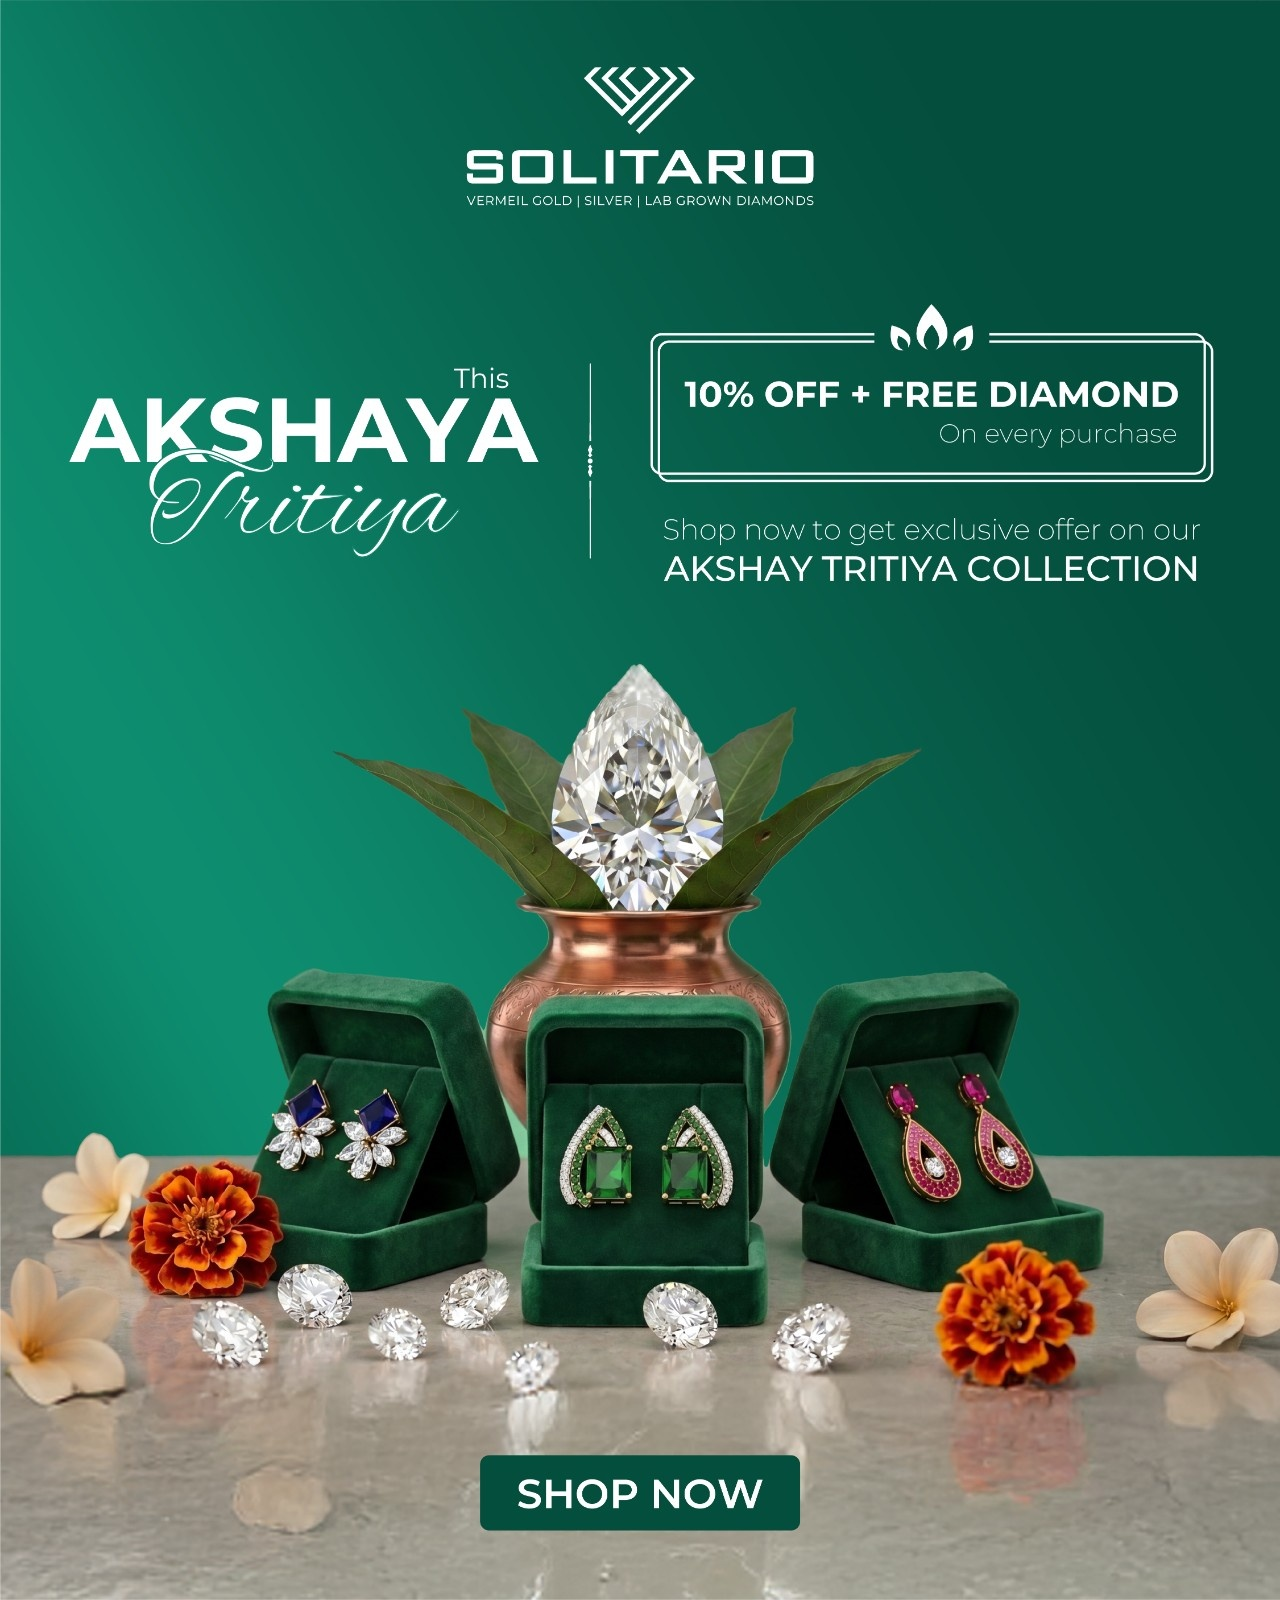
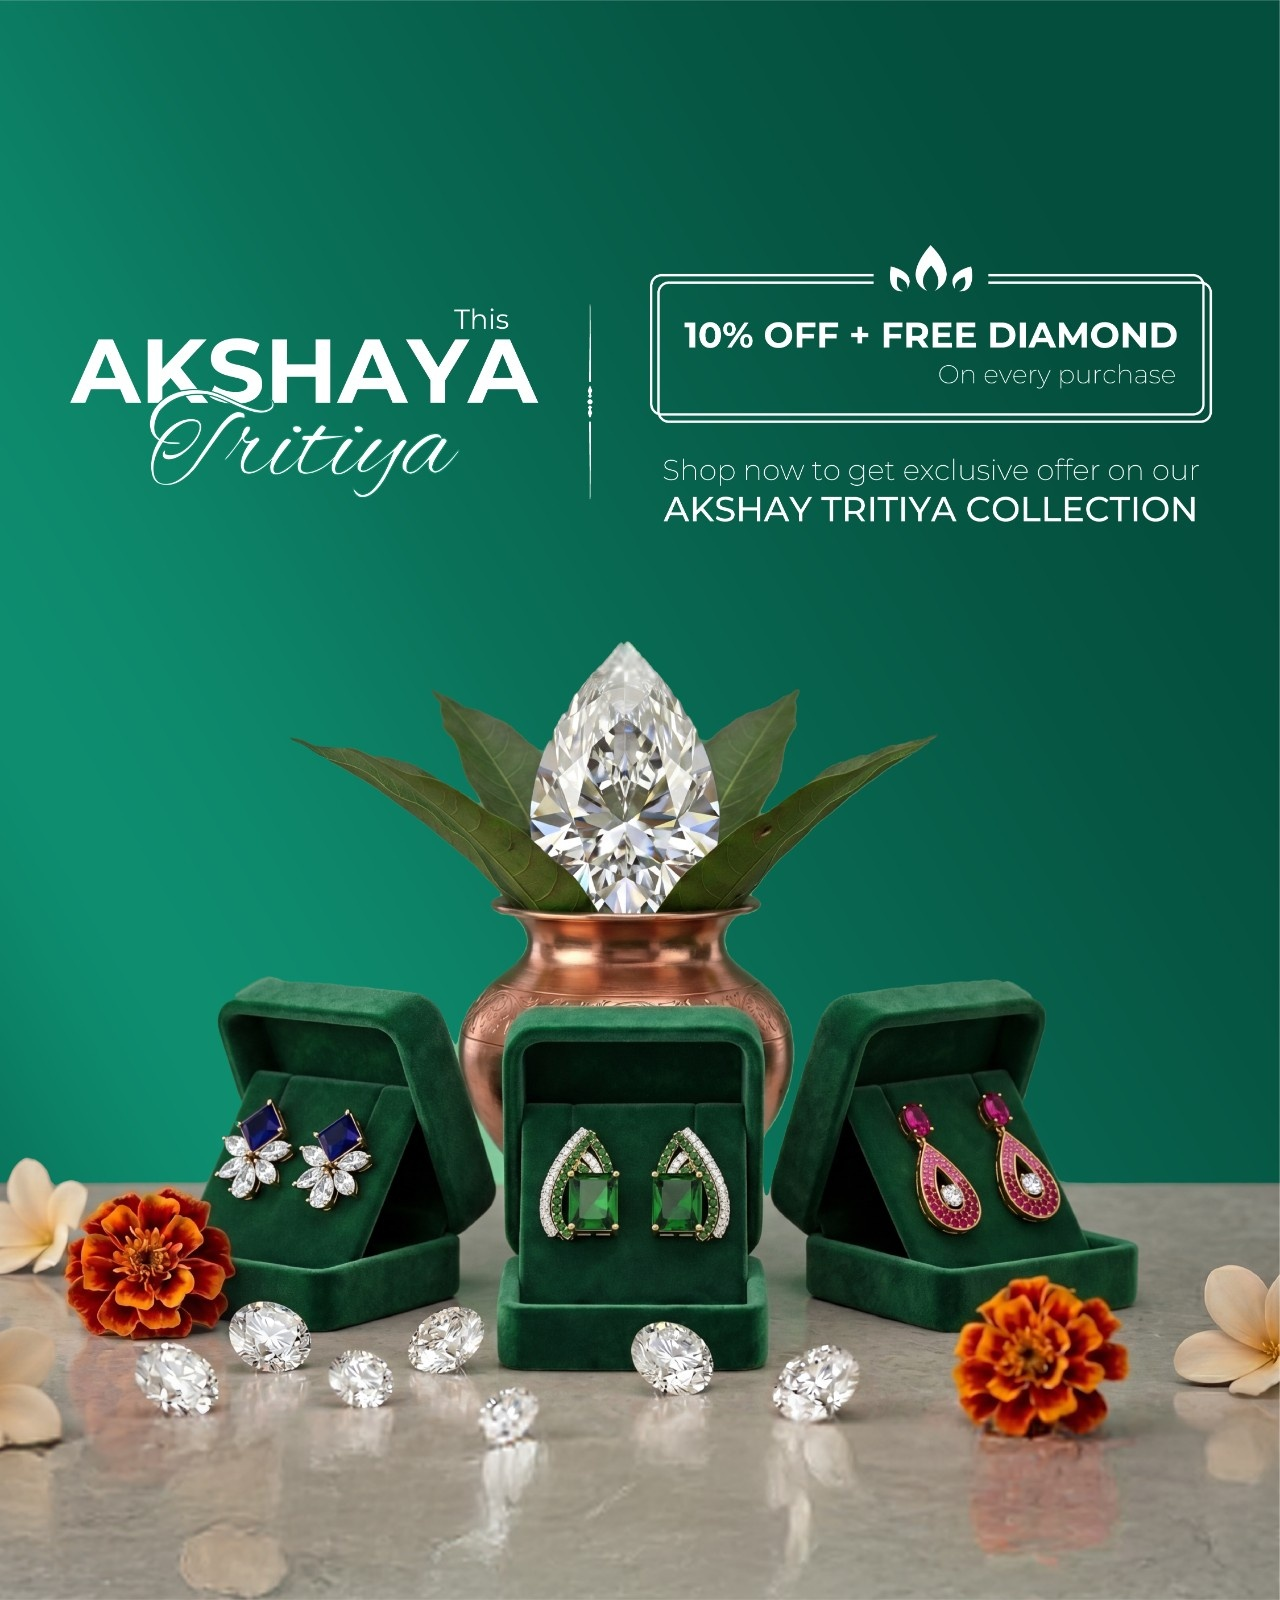
feat: Akshaya Tritiya hero slider and layout hydration fix

diff --git a/app/(public)/festival/page.tsx b/app/(public)/festival/page.tsx
@@ -31,6 +31,7 @@ const LOAD_MORE_THRESHOLD = 12;
 
 function FestivalHero({ festival }: { festival: FestivalConfig }) {
   const [isMobile, setIsMobile] = useState(false);
+  const [currentIndex, setCurrentIndex] = useState(0);
 
   useEffect(() => {
     const check = () => setIsMobile(window.innerWidth < 768);
@@ -39,31 +40,67 @@ function FestivalHero({ festival }: { festival: FestivalConfig }) {
     return () => window.removeEventListener('resize', check);
   }, []);
 
-  const hasImage = !!festival.heroImage;
+  // Multi-banner slider logic
+  const banners = (isMobile ? festival.mobileHeroImages : festival.heroImages) ||
+    (festival.heroImage ? [isMobile && festival.mobileHeroImage ? festival.mobileHeroImage : festival.heroImage] : []);
+  const hasSlider = banners.length > 1;
+
+  useEffect(() => {
+    if (!hasSlider) return;
+    const timer = setInterval(() => {
+      setCurrentIndex((prev) => (prev + 1) % banners.length);
+    }, 5000);
+    return () => clearInterval(timer);
+  }, [hasSlider, banners.length]);
 
   return (
     <section className="relative w-full overflow-hidden bg-[#1a1a1a]">
       <div className="relative w-full aspect-[4/5] md:aspect-[16/7] max-h-[85vh] md:max-h-[700px]">
         <div className="absolute inset-0">
-          {hasImage ? (
-            <Image
-              src={festival.heroImage!}
-              alt={festival.tagline}
-              fill
-              className="object-cover object-center"
-              priority
-              quality={90}
-              sizes="100vw"
-            />
-          ) : (
-            /* Fallback gradient when no image configured */
-            <div className="w-full h-full bg-gradient-to-br from-classic-green via-[#0d4a3a] to-[#0a3528]" />
-          )}
+          <AnimatePresence mode="wait">
+            {banners.length > 0 ? (
+              <motion.div
+                key={`${currentIndex}-${isMobile}`}
+                initial={{ opacity: 0 }}
+                animate={{ opacity: 1 }}
+                exit={{ opacity: 0 }}
+                transition={{ duration: 1 }}
+                className="absolute inset-0"
+              >
+                <Image
+                  src={banners[currentIndex]}
+                  alt={festival.tagline}
+                  fill
+                  className="object-cover object-center"
+                  priority
+                  quality={90}
+                  sizes="100vw"
+                />
+              </motion.div>
+            ) : (
+              <div className="w-full h-full bg-gradient-to-br from-classic-green via-[#0d4a3a] to-[#0a3528]" />
+            )}
+          </AnimatePresence>
           {/* Gradient overlay — bottom-heavy like earrings hero */}
           <div className="absolute inset-0 bg-gradient-to-t from-black/70 via-black/30 to-transparent" />
         </div>
 
-        {/* Dramatic top-left tagline (like "DRAMATIC. DELICATE. DIVINE.") */}
+        {/* Slider Dots */}
+        {hasSlider && (
+          <div className="absolute bottom-6 left-1/2 -translate-x-1/2 flex gap-2 z-20">
+            {banners.map((_, idx) => (
+              <button
+                key={idx}
+                onClick={() => setCurrentIndex(idx)}
+                className={`w-2 h-2 rounded-full transition-all duration-300 ${currentIndex === idx ? 'bg-white w-6' : 'bg-white/40'
+                  }`}
+                aria-label={`Go to slide ${idx + 1}`}
+              />
+            ))}
+          </div>
+        )}
+
+        {/* Dramatic top-left tagline */}
         {festival.heroTagline && (
           <motion.div
             initial={{ opacity: 0, x: -20 }}
@@ -77,12 +114,12 @@ function FestivalHero({ festival }: { festival: FestivalConfig }) {
           </motion.div>
         )}
 
-        {/* Bottom-center text — same position as category page */}
+        {/* Bottom-center text */}
         <div className="absolute inset-0 z-10 flex items-end justify-center pb-12 md:pb-16">
           <div className="text-center px-4">
             {/* Breadcrumb */}
             <nav className="flex items-center justify-center gap-2 text-white/70 text-sm mb-4 font-montserrat">
-              <Link href="/" className="hover:text-white transition-colors">Home</Link>
+              <Link href="/" className="hover:text-white transition-colors underline-offset-4 hover:underline">Home</Link>
               <span>/</span>
               <span className="text-white">{festival.tagline}</span>
             </nav>
@@ -91,7 +128,7 @@ function FestivalHero({ festival }: { festival: FestivalConfig }) {
               initial={{ opacity: 0, y: 20 }}
               animate={{ opacity: 1, y: 0 }}
               transition={{ duration: 0.6 }}
-              className="text-4xl md:text-5xl lg:text-6xl font-montserrat font-bold text-white mb-4"
+              className="text-4xl md:text-5xl lg:text-5xl font-montserrat font-bold text-white mb-4 drop-shadow-lg"
             >
               {festival.heading}
             </motion.h1>
@@ -100,7 +137,7 @@ function FestivalHero({ festival }: { festival: FestivalConfig }) {
               initial={{ opacity: 0, y: 20 }}
               animate={{ opacity: 1, y: 0 }}
               transition={{ duration: 0.6, delay: 0.1 }}
-              className="text-white/80 font-montserrat text-sm md:text-base max-w-xl mx-auto"
+              className="text-white/80 font-montserrat text-sm md:text-base max-w-xl mx-auto drop-shadow-md"
             >
               {festival.subtitle}
             </motion.p>
@@ -112,8 +149,8 @@ function FestivalHero({ festival }: { festival: FestivalConfig }) {
 }
 
 // ─── Main page content ─────────────────────────────────────────────────────
-function FestivalPageContent() {
-  const festival = useMemo(() => getActiveFestival(), []);
+export function FestivalPageContent({ festivalOverride }: { festivalOverride?: FestivalConfig }) {
+  const festival = useMemo(() => festivalOverride || getActiveFestival(), [festivalOverride]);
   const [products, setProducts] = useState<Product[]>([]);
   const [loading, setLoading] = useState(true);
   const [displayedProducts, setDisplayedProducts] = useState<Product[]>([]);
@@ -287,7 +324,7 @@ function FestivalPageContent() {
                   sortBy={sortBy}
                   onSortChange={setSortBy}
                   viewMode={viewMode}
-                  onViewModeChange={() => {}}
+                  onViewModeChange={() => { }}
                   searchQuery={searchQuery}
                   onSearchChange={setSearchQuery}
                   priceRange={priceRange}
@@ -401,9 +438,8 @@ function FestivalPageContent() {
                                 aria-label={isInWishlist ? `Remove ${product.name} from wishlist` : `Add ${product.name} to wishlist`}
                               >
                                 <Heart
-                                  className={`w-4 h-4 transition-colors ${
-                                    isInWishlist ? 'fill-red-500 text-red-500' : 'text-gray-600'
-                                  }`}
+                                  className={`w-4 h-4 transition-colors ${isInWishlist ? 'fill-red-500 text-red-500' : 'text-gray-600'
+                                    }`}
                                 />
                               </button>
                             </div>
@@ -417,9 +453,8 @@ function FestivalPageContent() {
                               </h3>
                             </Link>
                             <p
-                              className={`font-gotham text-base sm:text-lg font-semibold mb-3 min-h-[1.75rem] ${
-                                isPrebookingProduct(product) ? 'text-purple-600' : 'text-classic-green'
-                              }`}
+                              className={`font-gotham text-base sm:text-lg font-semibold mb-3 min-h-[1.75rem] ${isPrebookingProduct(product) ? 'text-purple-600' : 'text-classic-green'
+                                }`}
                             >
                               {isPrebookingProduct(product)
                                 ? getProductDisplayPrice(product)
@@ -437,11 +472,10 @@ function FestivalPageContent() {
                                   currency: product.currency || 'INR',
                                 });
                               }}
-                              className={`w-full flex items-center justify-center gap-2 text-white py-2.5 rounded-lg font-gotham text-xs uppercase tracking-wider transition-all active:scale-95 ${
-                                isPrebookingProduct(product)
-                                  ? 'bg-gradient-to-r from-purple-600 to-purple-500 hover:from-purple-700 hover:to-purple-600'
-                                  : 'bg-classic-green hover:bg-classic-green/90'
-                              }`}
+                              className={`w-full flex items-center justify-center gap-2 text-white py-2.5 rounded-lg font-gotham text-xs uppercase tracking-wider transition-all active:scale-95 ${isPrebookingProduct(product)
+                                ? 'bg-gradient-to-r from-purple-600 to-purple-500 hover:from-purple-700 hover:to-purple-600'
+                                : 'bg-classic-green hover:bg-classic-green/90'
+                                }`}
                             >
                               {isPrebookingProduct(product) ? (
                                 <Ticket className="w-4 h-4" />
@@ -550,7 +584,7 @@ function FestivalPageContent() {
                   sortBy={sortBy}
                   onSortChange={setSortBy}
                   viewMode={viewMode}
-                  onViewModeChange={() => {}}
+                  onViewModeChange={() => { }}
                   searchQuery={searchQuery}
                   onSearchChange={setSearchQuery}
                   priceRange={priceRange}
@@ -614,11 +648,10 @@ function FestivalPageContent() {
                       setSortBy(opt.value);
                       setShowMobileSort(false);
                     }}
-                    className={`w-full text-left py-3 px-4 rounded-lg text-sm font-montserrat transition-all ${
-                      sortBy === opt.value
-                        ? 'bg-classic-green/10 text-classic-green font-semibold'
-                        : 'text-gray-700 hover:bg-gray-50'
-                    }`}
+                    className={`w-full text-left py-3 px-4 rounded-lg text-sm font-montserrat transition-all ${sortBy === opt.value
+                      ? 'bg-classic-green/10 text-classic-green font-semibold'
+                      : 'text-gray-700 hover:bg-gray-50'
+                      }`}
                   >
                     {opt.value === sortBy && <span className="mr-2">✓</span>}
                     {opt.label}

diff --git a/lib/festival-config.ts b/lib/festival-config.ts
@@ -40,6 +40,12 @@ export interface FestivalConfig {
   endDate?: string;
   /** Hero background image path for the /festival page */
   heroImage?: string;
+  /** Mobile hero background image path */
+  mobileHeroImage?: string;
+  /** Multi-banner support: array of images */
+  heroImages?: string[];
+  /** Multi-banner support: array of mobile images */
+  mobileHeroImages?: string[];
   /** Short dramatic tagline shown on hero image (e.g. 'AUSPICIOUS. ETERNAL. DIVINE.') */
   heroTagline?: string;
 }
@@ -62,7 +68,20 @@ export const FESTIVALS: FestivalConfig[] = [
     maxProducts: 6,
     startDate: '2026-04-10T00:00:00+05:30',
     endDate: '2026-04-30T23:59:59+05:30',
-    heroImage: '/images/banners/akshay-tritiya.jpeg',
+    heroImage: '/images/akshaya-tritiya/Akshay_Tritiya_All_Web.jpg.jpeg',
+    mobileHeroImage: '/images/akshaya-tritiya/Akshay_Tritiya_All_Mobile.jpg.jpeg',
+    heroImages: [
+      '/images/akshaya-tritiya/Akshay_Tritiya_All_Web.jpg.jpeg',
+      '/images/akshaya-tritiya/Akshay_Tritiya_Blue_Web.jpg.jpeg',
+      '/images/akshaya-tritiya/Akshay_Tritiya_Green_Web.jpg.jpeg',
+      '/images/akshaya-tritiya/Akshay_Tritiya_Red_Web.jpg.jpeg',
+    ],
+    mobileHeroImages: [
+      '/images/akshaya-tritiya/Akshay_Tritiya_All_Mobile.jpg.jpeg',
+      '/images/akshaya-tritiya/Akshay_Tritiya_Blue_Mobile.jpg.jpeg',
+      '/images/akshaya-tritiya/Akshay_Tritiya_Green_Mobile.jpg.jpeg',
+      '/images/akshaya-tritiya/Akshay_Tritiya_Red_Mobile.jpg.jpeg',
+    ],
     heroTagline: 'AUSPICIOUS. ETERNAL. DIVINE.',
   },
 

diff --git a/app/layout.tsx b/app/layout.tsx
@@ -136,15 +136,15 @@ export default function RootLayout({
                 <WishlistProvider>
                   <CartProvider>
                     <ShopifyCartProvider>
-                      <div suppressHydrationWarning>
-                        <Header />
-                        <main id="main-content">
-                          {children}
-                        </main>
-                        <Footer />
-                        <LazyCartSidebar />
-                        <LazyWarnerBrosFloatingButton />
-                      </div>
+                    <Header />
+                    <main id="main-content" suppressHydrationWarning>
+                      <Suspense fallback={null}>
+                        {children}
+                      </Suspense>
+                    </main>
+                    <Footer />
+                    <LazyCartSidebar />
+                    <LazyWarnerBrosFloatingButton />
                     </ShopifyCartProvider>
                   </CartProvider>
                 </WishlistProvider>

diff --git a/app/(public)/festival/akshaya-tritiya/page.tsx b/app/(public)/festival/akshaya-tritiya/page.tsx
@@ -1,0 +1,24 @@
+'use client';
+
+import { Suspense } from 'react';
+import { FESTIVALS } from '@/lib/festival-config';
+import { FestivalPageContent } from '../page';
+
+const AKSHAYA_TRITIYA = FESTIVALS.find(f => f.id === 'akshaya-tritiya-2026') || FESTIVALS[0];
+
+export default function AkshayaTritiyaPage() {
+  return (
+    <Suspense 
+      fallback={
+        <div className="min-h-screen flex items-center justify-center bg-white">
+          <div className="text-center">
+            <div className="animate-spin rounded-full h-10 w-10 border-b-2 border-classic-green mx-auto mb-4" />
+            <p className="text-gray-500 font-montserrat text-sm">Loading Akshaya Tritiya details…</p>
+          </div>
+        </div>
+      }
+    >
+      <FestivalPageContent festivalOverride={AKSHAYA_TRITIYA} />
+    </Suspense>
+  );
+}
